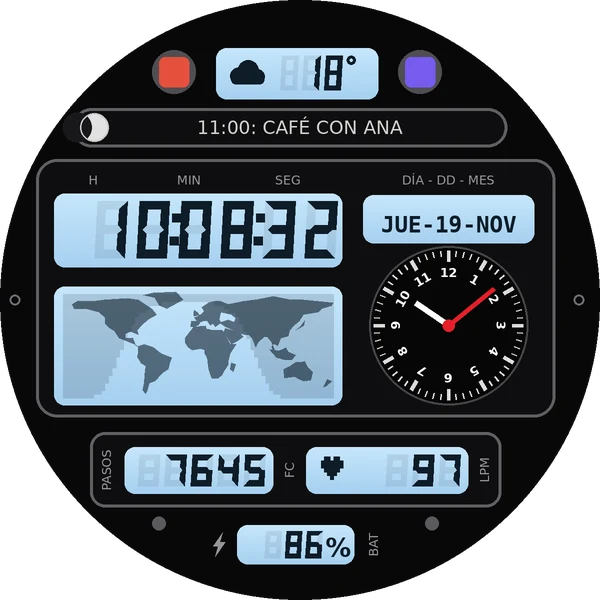
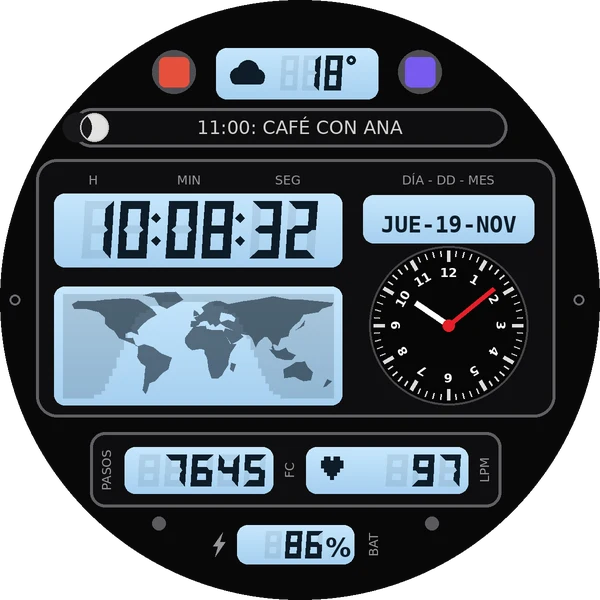
LCD Mundo: la hora en pares con más espacio, como la foto
Claude-Session: https://claude.ai/code/session_01RTdv2VrACuR4VFWJLA57hx

Changed region(s): [[0.15, 0.33, 0.57, 0.45]]

diff --git a/android/esferas-de-reloj/mundo/src/main/java/cl/carlospnauto/esfera/FaceService.kt b/android/esferas-de-reloj/mundo/src/main/java/cl/carlospnauto/esfera/FaceService.kt
@@ -367,7 +367,23 @@ class WorldRenderer(
         val tBox = RectF(X(-0.82f), Y(-0.355f), X(0.14f), Y(-0.11f))
         lcd(canvas, tBox, r, sc, false)
         val sec = if (ambient) "  " else "%02d".format(t.second)
-        Lcd.number(canvas, "$h:${"%02d".format(t.minute)}:$sec", X(0.115f), Y(-0.33f), r * 0.10f, r * 0.19f, r * 0.04f, 6, ink, ghost)
+        // En pares (HH · MM · SS), como en la foto: juntos dentro del par y más aire en los dos puntos
+        val dw = r * 0.095f
+        val dh = r * 0.19f
+        val inGap = r * 0.024f
+        val colonGap = r * 0.066f
+        val total = 3 * (2 * dw + inGap) + 2 * colonGap
+        var dx = tBox.centerX() - total / 2
+        val dy = Y(-0.33f)
+        for ((i, pair) in listOf(h, "%02d".format(t.minute), sec).withIndex()) {
+            Lcd.digit(canvas, pair[0], dx, dy, dw, dh, ink, ghost)
+            Lcd.digit(canvas, pair[1], dx + dw + inGap, dy, dw, dh, ink, ghost)
+            dx += 2 * dw + inGap
+            if (i < 2) {
+                if (i == 0 || !ambient) Lcd.colon(canvas, dx + colonGap / 2, dy, dh, r * 0.016f, ink)
+                dx += colonGap
+            }
+        }
         // Fecha: DÍA-DD-MES
         val dBox = RectF(X(0.21f), Y(-0.35f), X(0.78f), Y(-0.19f))
         lcd(canvas, dBox, r, sc, false)
